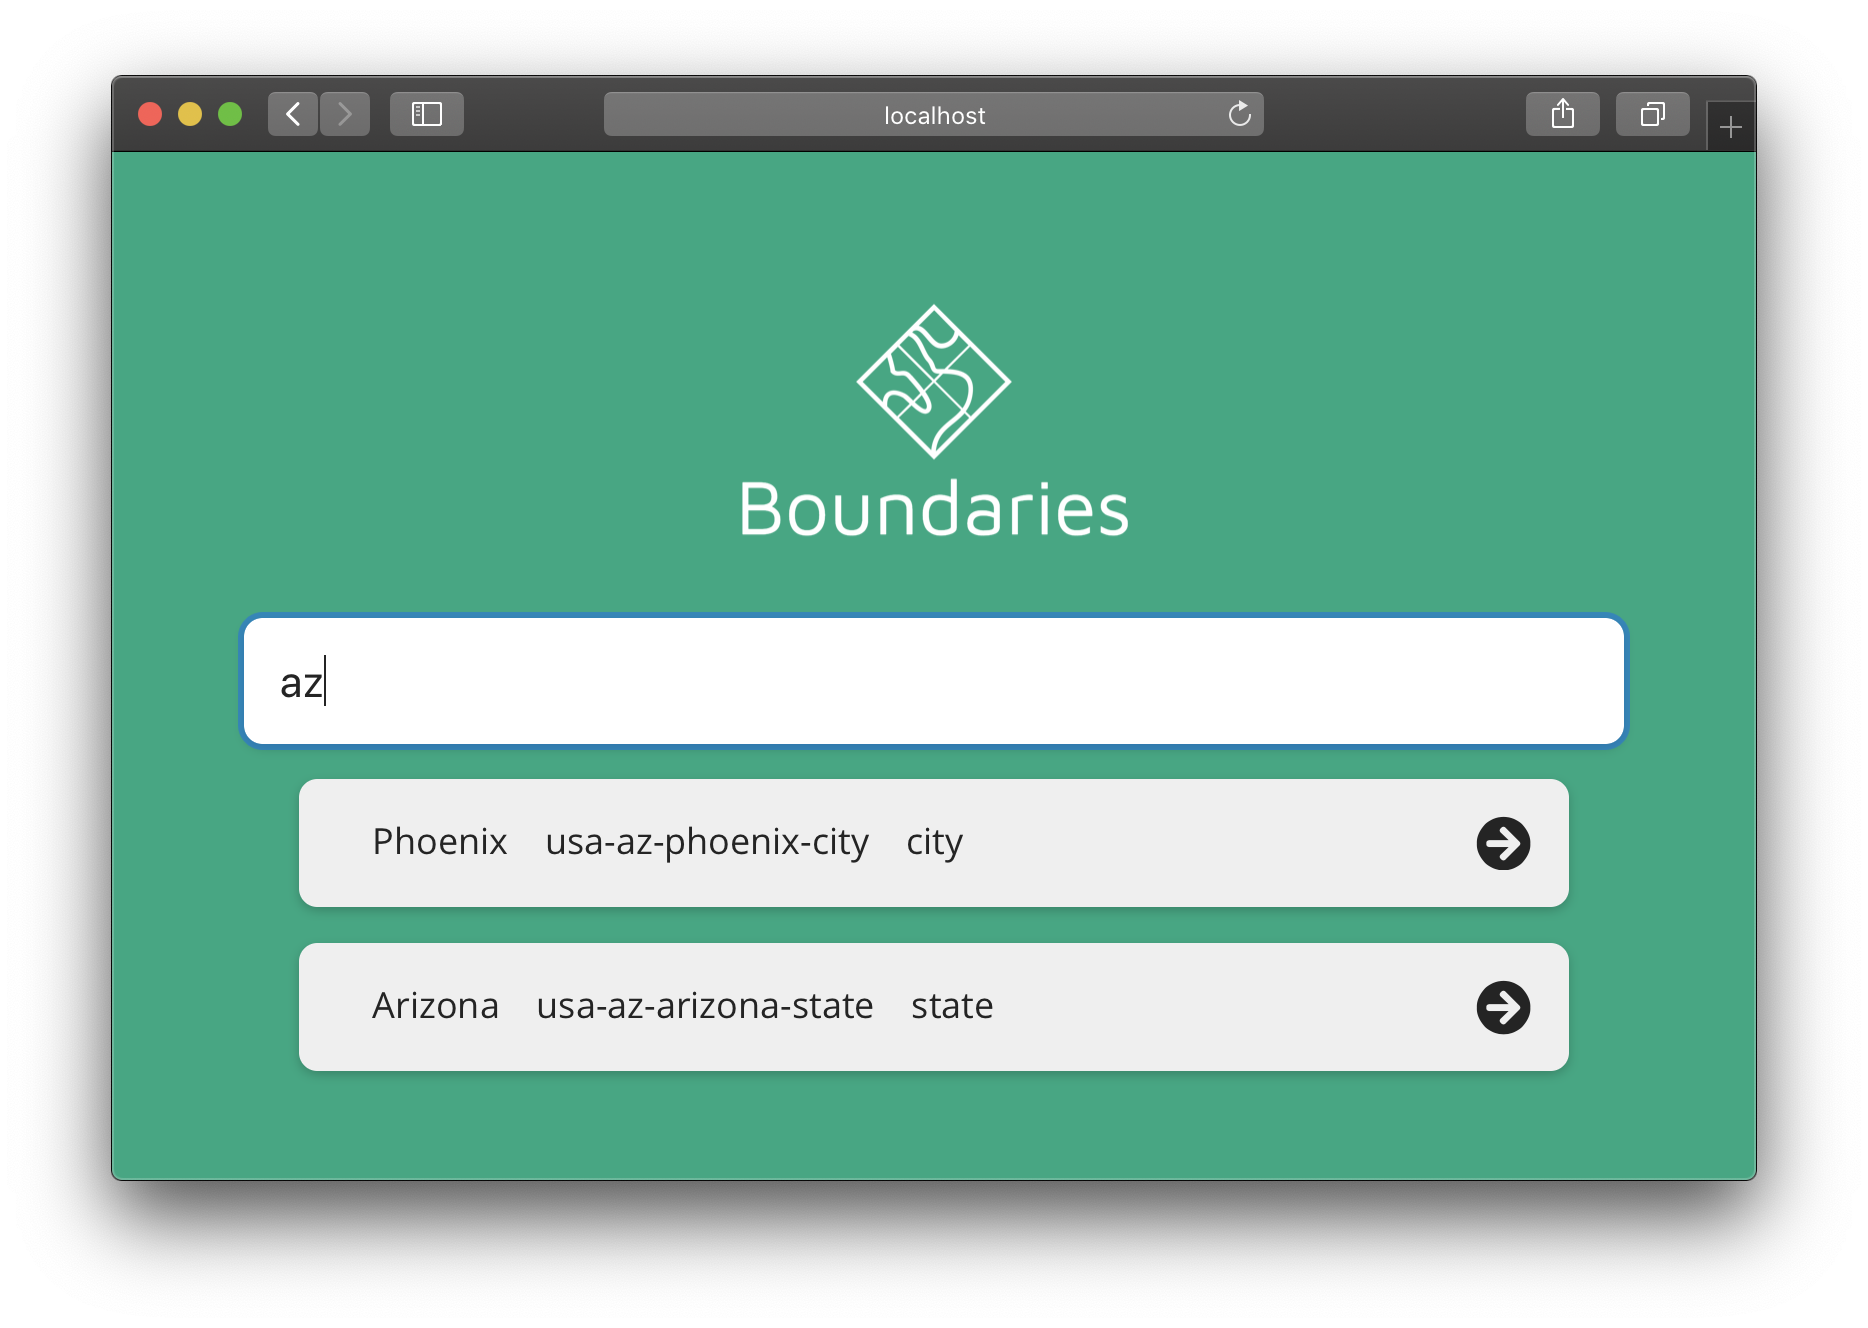
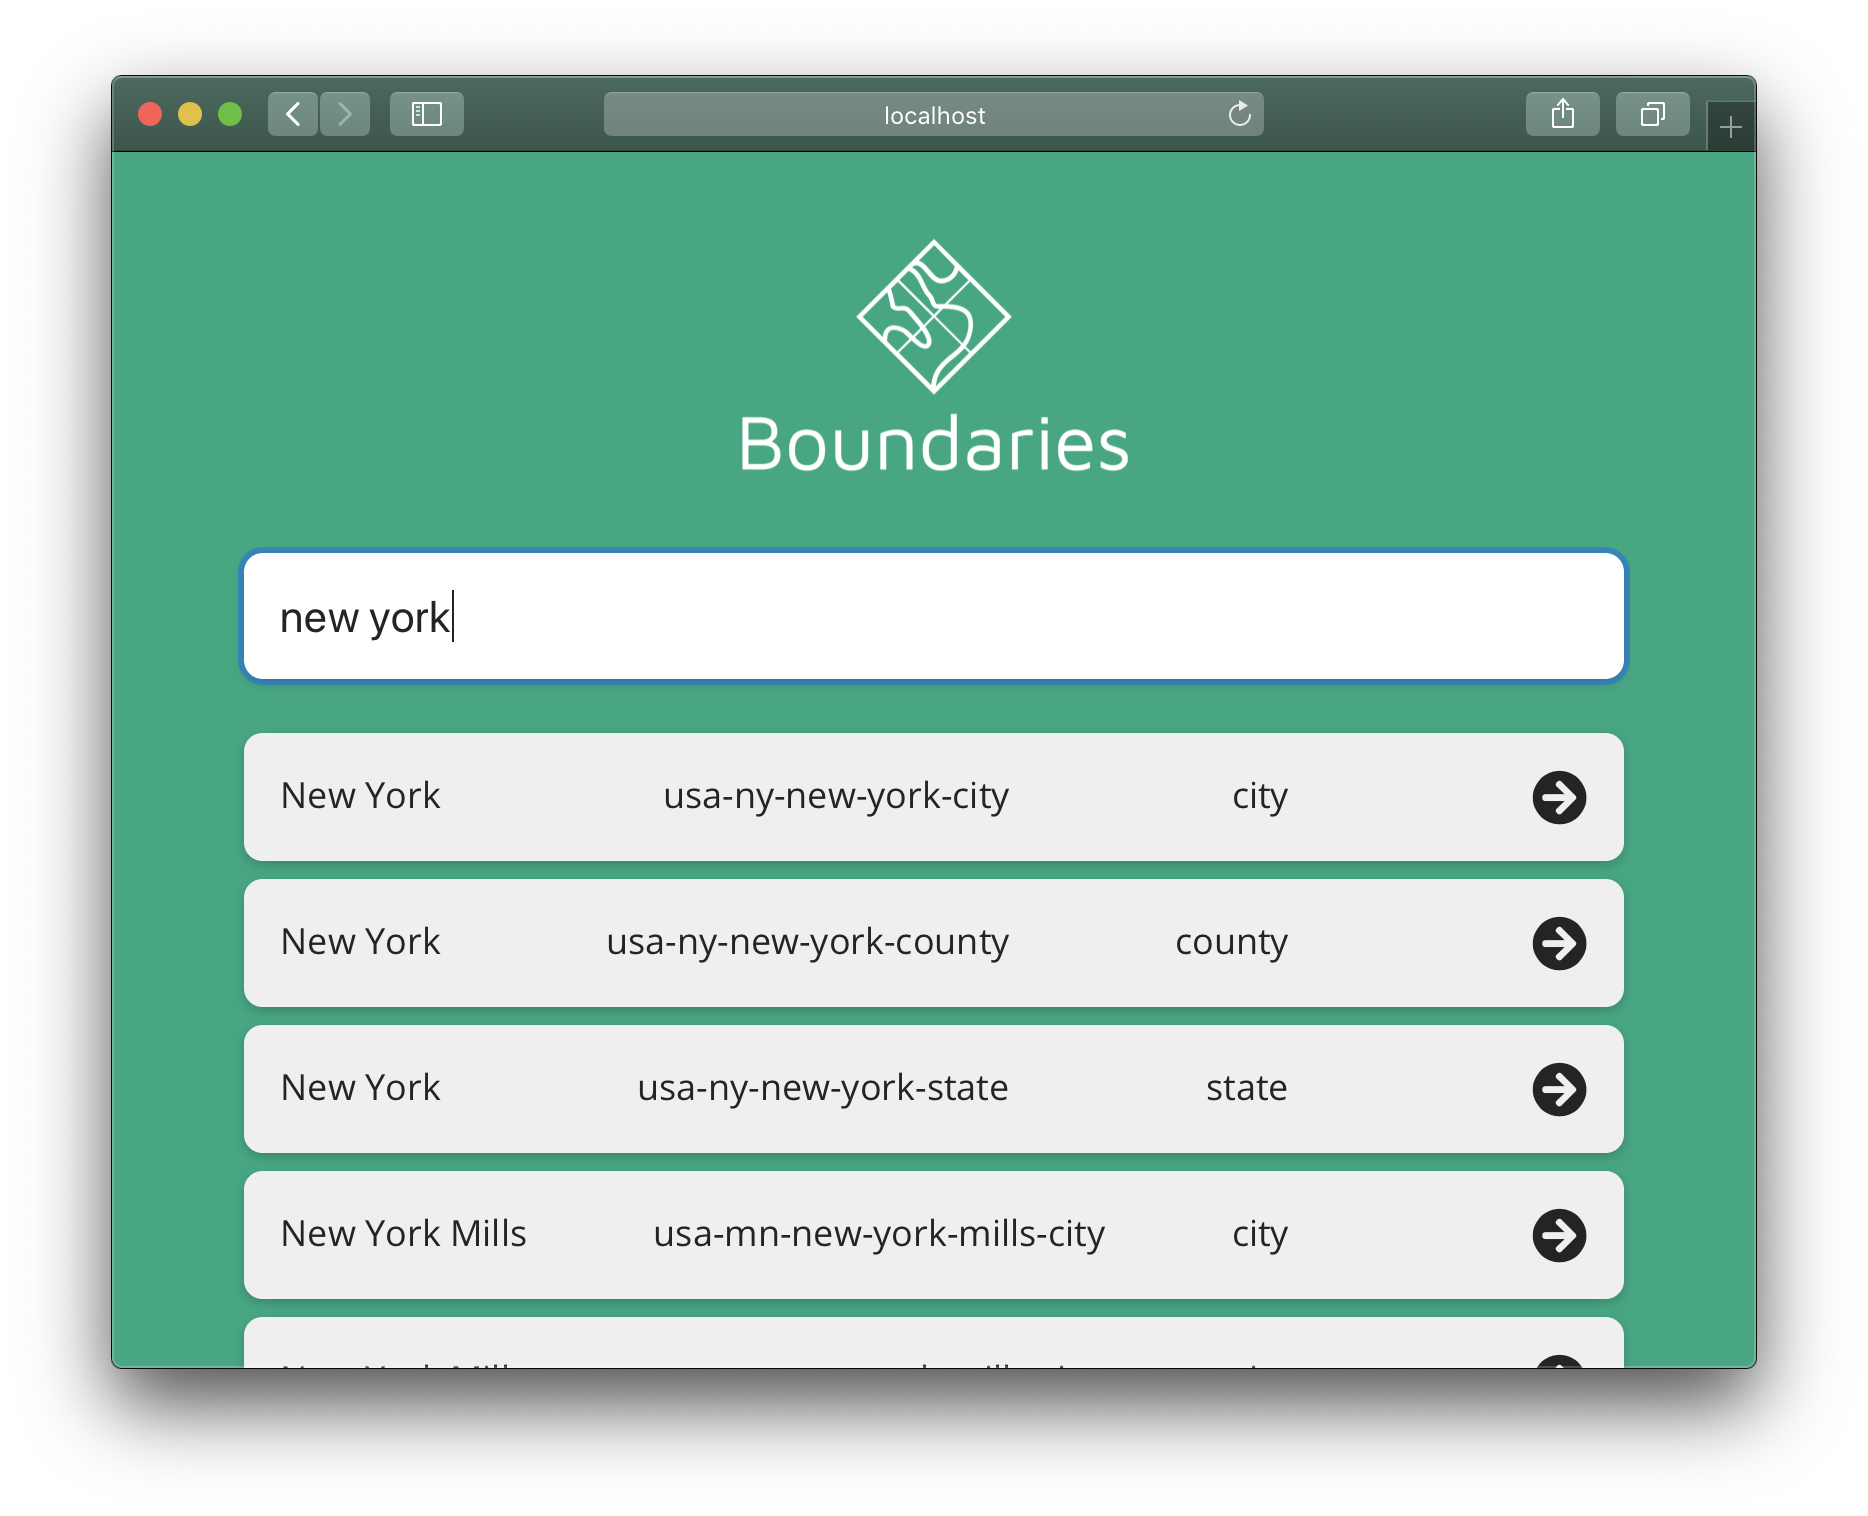
Build with ui tweaks

Changed region(s): [[0.0621, 0.1544, 0.9315, 0.9262], [0.0621, 0.0309, 0.9625, 0.1235]]

diff --git a/site/src.20c91675.js b/site/src.20c91675.js
@@ -174,8 +174,8 @@ var e;!function(i,s,o){"undefined"!=typeof module&&module.exports?module.exports
 },{"./ChasingDots":"WxWC","./Circle":"b4yr","./CubeGrid":"OWAg","./DoubleBounce":"Ng0a","./FadingCircle":"cZ0a","./FoldingCube":"U8Cy","./Pulse":"rCY8","./RotatingPlane":"PqB5","./ThreeBounce":"btzb","./WanderingCubes":"U91H","./Wave":"Eoai","./Wordpress":"Cj0i"}],"GON9":[function(require,module,exports) {
 
 },{}],"NHn6":[function(require,module,exports) {
-"use strict";var e=this&&this.__extends||function(){var e=function(t,r){return(e=Object.setPrototypeOf||{__proto__:[]}instanceof Array&&function(e,t){e.__proto__=t}||function(e,t){for(var r in t)t.hasOwnProperty(r)&&(e[r]=t[r])})(t,r)};return function(t,r){function a(){this.constructor=t}e(t,r),t.prototype=null===r?Object.create(r):(a.prototype=r.prototype,new a)}}(),t=this&&this.__importStar||function(e){if(e&&e.__esModule)return e;var t={};if(null!=e)for(var r in e)Object.hasOwnProperty.call(e,r)&&(t[r]=e[r]);return t.default=e,t},r=this&&this.__importDefault||function(e){return e&&e.__esModule?e:{default:e}};Object.defineProperty(exports,"__esModule",{value:!0});var a=t(require("react")),n=r(require("fuzzysort")),o=require("react-icons/fa"),s=require("better-react-spinkit");require("./style.sass");var u=function(t){function r(){var e=null!==t&&t.apply(this,arguments)||this;return e.state={loading:!0,error:!1,data:[],results:[],search:""},e.componentDidMount=function(){fetch("https://raw.githubusercontent.com/stevelacy/boundaries.search/master/list.json").then(function(e){return e.json()}).then(function(t){return e.setState({data:t,loading:!1})}).catch(function(t){return e.setState({error:t,loading:!1})})},e.onSearch=function(t){var r=n.default.go(t.target.value,e.state.data,{keys:["name","id","tag"],allowTypo:!1,threshold:-1e3});e.setState({search:t.target.value,results:r.slice(0,5)})},e.getPath=function(e){return"https://github.com/staeco/boundaries/blob/master/files/"+e+".geojson"},e.renderResult=function(t){return a.default.createElement("div",{key:t.obj.id,className:"result"},a.default.createElement("a",{href:e.getPath(t.obj.id),target:"_blank"},a.default.createElement("div",{className:"row"},t.obj.name),a.default.createElement("div",{className:"row"},t.obj.id),a.default.createElement("div",{className:"row"},t.obj.tag),a.default.createElement("div",{className:"icon"},a.default.createElement(o.FaArrowCircleRight,{size:24}))))},e.renderLoader=function(){return a.default.createElement("div",{className:"loader"},a.default.createElement(s.WanderingCubes,{size:150,color:"white"}),"Loading boundary files...")},e.renderError=function(){return a.default.createElement("div",{className:"error"},"Error loading GeoJson list")},e.render=function(){return e.state.loading?e.renderLoader():a.default.createElement("div",{className:"app"},a.default.createElement("img",{className:"logo",src:"https://raw.githubusercontent.com/staeco/boundaries/master/logos/white.png"}),a.default.createElement("input",{className:"input",placeholder:"search boundaries (nyc, new york, etc...)",type:"text",value:e.state.search,onChange:e.onSearch}),e.state.results.map(e.renderResult),e.state.error&&e.renderError())},e}return e(r,t),r}(a.PureComponent);exports.default=u;
+"use strict";var e=this&&this.__extends||function(){var e=function(t,r){return(e=Object.setPrototypeOf||{__proto__:[]}instanceof Array&&function(e,t){e.__proto__=t}||function(e,t){for(var r in t)t.hasOwnProperty(r)&&(e[r]=t[r])})(t,r)};return function(t,r){function a(){this.constructor=t}e(t,r),t.prototype=null===r?Object.create(r):(a.prototype=r.prototype,new a)}}(),t=this&&this.__importStar||function(e){if(e&&e.__esModule)return e;var t={};if(null!=e)for(var r in e)Object.hasOwnProperty.call(e,r)&&(t[r]=e[r]);return t.default=e,t},r=this&&this.__importDefault||function(e){return e&&e.__esModule?e:{default:e}};Object.defineProperty(exports,"__esModule",{value:!0});var a=t(require("react")),n=r(require("fuzzysort")),o=require("react-icons/fa"),s=require("better-react-spinkit");require("./style.sass");var u=function(t){function r(){var e=null!==t&&t.apply(this,arguments)||this;return e.state={loading:!0,error:!1,data:[],results:[],search:""},e.componentDidMount=function(){fetch("https://raw.githubusercontent.com/stevelacy/boundaries.search/master/list.json").then(function(e){return e.json()}).then(function(t){return e.setState({data:t,loading:!1})}).catch(function(t){return e.setState({error:t,loading:!1})})},e.onSearch=function(t){var r=n.default.go(t.target.value,e.state.data,{keys:["name","id","tag"],allowTypo:!1,threshold:-1e3});e.setState({search:t.target.value,results:r.slice(0,10)})},e.getPath=function(e){return"https://github.com/staeco/boundaries/blob/master/files/"+e+".geojson"},e.renderResult=function(t){return a.default.createElement("div",{key:t.obj.id,className:"result"},a.default.createElement("a",{href:e.getPath(t.obj.id),target:"_blank"},a.default.createElement("div",{className:"rows"},a.default.createElement("div",{className:"row"},t.obj.name),a.default.createElement("div",{className:"row"},t.obj.id),a.default.createElement("div",{className:"row"},t.obj.tag)),a.default.createElement("div",{className:"icon"},a.default.createElement(o.FaArrowCircleRight,{size:24}))))},e.renderLoader=function(){return a.default.createElement("div",{className:"loader"},a.default.createElement(s.WanderingCubes,{size:150,color:"white"}),"Loading boundary files...")},e.renderError=function(){return a.default.createElement("div",{className:"error"},"Error loading GeoJson list")},e.render=function(){return e.state.loading?e.renderLoader():a.default.createElement("div",{className:"app"},a.default.createElement("img",{className:"logo",src:"https://raw.githubusercontent.com/staeco/boundaries/master/logos/white.png"}),a.default.createElement("input",{className:"input",placeholder:"search boundaries (nyc, new york, etc...)",type:"text",value:e.state.search,onChange:e.onSearch}),e.state.results.map(e.renderResult),e.state.error&&e.renderError())},e}return e(r,t),r}(a.PureComponent);exports.default=u;
 },{"react":"n8MK","fuzzysort":"GlPB","react-icons/fa":"inF2","better-react-spinkit":"XPzR","./style.sass":"GON9"}],"zo2T":[function(require,module,exports) {
 "use strict";var e=this&&this.__importStar||function(e){if(e&&e.__esModule)return e;var r={};if(null!=e)for(var t in e)Object.hasOwnProperty.call(e,t)&&(r[t]=e[t]);return r.default=e,r},r=this&&this.__importDefault||function(e){return e&&e.__esModule?e:{default:e}};Object.defineProperty(exports,"__esModule",{value:!0});var t=e(require("react")),u=require("react-dom"),a=r(require("./App"));u.render(t.createElement(a.default,null),document.getElementById("app"));
 },{"react":"n8MK","react-dom":"NKHc","./App":"NHn6"}]},{},["zo2T"], null)
-//# sourceMappingURL=src.f6626890.js.map
+//# sourceMappingURL=src.20c91675.js.map

diff --git a/site/src.4b3607a0.css b/site/src.4b3607a0.css
@@ -1,0 +1,2 @@
+*,body,html{margin:0;padding:0;box-sizing:border-box}body{background-color:#01a980;font-size:16px;font-family:Open Sans,sans-serif}.loader{color:#fff;justify-content:space-between;flex-direction:column;height:250px;margin-top:15vh}.error,.loader{display:flex;align-items:center}.error{padding:16px;box-shadow:0 2px 5px rgba(0,0,0,.2);border-radius:8px;width:50%;margin:32px auto;color:red;justify-content:center;background-color:#fff}.app{max-width:600px;width:100%;margin:10vh auto;color:#fff}.app .logo{height:150px;margin:8px auto;display:flex}.app .input{border-radius:8px;width:100%;border:none;background-color:#fff;color:#242424;font-size:1.2rem;margin-bottom:16px}.app .input,.app .result{padding:16px;box-shadow:0 2px 5px rgba(0,0,0,.2)}.app .result{border-radius:8px;display:flex;margin:8px 0;background-color:#efefef;align-items:center;flex:1}.app .result .rows{display:flex;flex:1;max-width:80%;justify-content:space-between}.app .result .row{margin-right:16px}.app .result .icon{margin-left:auto;padding-left:16px}a{text-decoration:none;color:#242424;display:inherit;width:inherit;flex:inherit}
+/*# sourceMappingURL=src.4b3607a0.css.map */

diff --git a/src/App.tsx b/src/App.tsx
@@ -37,7 +37,7 @@ export default class App extends PureComponent {
     })
     this.setState({
       search: e.target.value,
-      results: results.slice(0, 5)
+      results: results.slice(0, 10)
     })
   }
   getPath = (id: string): string => {
@@ -46,14 +46,16 @@ export default class App extends PureComponent {
   renderResult = (result: Fuzzysort.KeyResult<any>) => {
     return <div key={result.obj.id} className="result">
       <a href={this.getPath(result.obj.id)} target="_blank">
-        <div className="row">
-          {result.obj.name}
-        </div>
-        <div className="row">
-          {result.obj.id}
-        </div>
-        <div className="row">
-          {result.obj.tag}
+        <div className="rows">
+          <div className="row">
+            {result.obj.name}
+          </div>
+          <div className="row">
+            {result.obj.id}
+          </div>
+          <div className="row">
+            {result.obj.tag}
+          </div>
         </div>
         <div className="icon">
           <FaArrowCircleRight size={24} />

diff --git a/site/index.html b/site/index.html
@@ -1,2 +1,2 @@
-<html><head><title>Boundaries Search</title><link href="https://fonts.googleapis.com/css?family=Open+Sans|Roboto&display=swap" rel="stylesheet"><link rel="stylesheet" href="src.a073dcdb.css"></head><body> <div id="app"></div> <script src="src.f6626890.js"></script>
+<html><head><title>Boundaries Search</title><link href="https://fonts.googleapis.com/css?family=Open+Sans|Roboto&display=swap" rel="stylesheet"><link rel="stylesheet" href="src.4b3607a0.css"></head><body> <div id="app"></div> <script src="src.20c91675.js"></script>
 </body></html>

diff --git a/src/style.sass b/src/style.sass
@@ -49,15 +49,21 @@ body
     background-color: #fff
     color: #242424
     font-size: 1.2rem
+    margin-bottom: 16px
   .result
     @include box
     display: flex
-    margin: 16px 24px
+    margin: 8px 0
     background-color: #efefef
     align-items: center
     flex: 1
+    .rows
+      display: flex
+      flex: 1
+      max-width: 80%
+      justify-content: space-between
     .row
-      margin-left: 16px
+      margin-right: 16px
     .icon
       margin-left: auto
       padding-left: 16px
